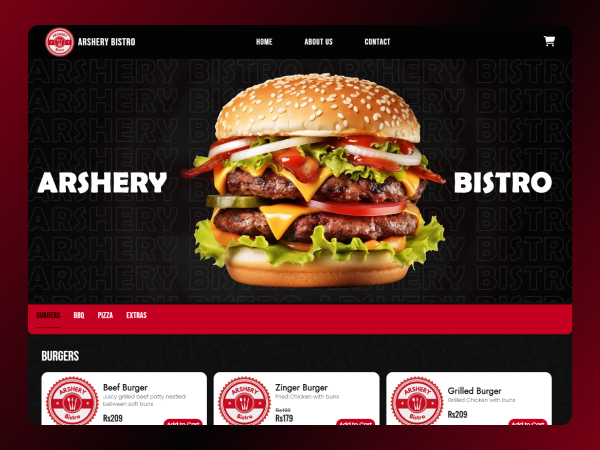
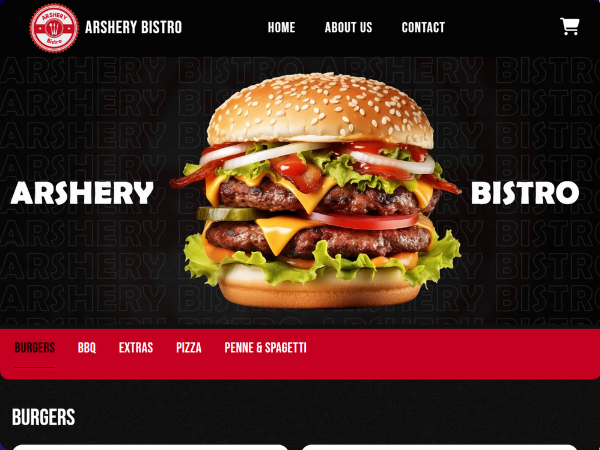
Enhance project modal and portfolio components with new features and styles
- Added drop shadow and transition effects to project items
- Improved modal layout with new role and tech stack sections
- Implemented responsive body overflow handling for modal
- Updated project data with new projects and roles
- Refined skills and about me sections for clarity and impact
- Added new experience data and assets

diff --git a/src/data/Projects.js b/src/data/Projects.js
@@ -1,33 +1,72 @@
 import arsheryBistro from "../assets/arsherybistro.png";
 import mystory from "../assets/mystory.png";
-import project3 from "../assets/project-3.jpg";
+import ardonyx from "../assets/ardonyx.png";
+import smartSpend from "../assets/smartSpend.png";
+import karyawan from "../assets/karyawan.png";
 
 export const projects = [
   {
     id: 1,
+    title: "Ardonyx",
+    techStack: ["React.js", "antD"],
+    category: "Clothing Store",
+    description:
+      "Ardonyx is a design-forward, cutting-edge eCommerce platform built for a contemporary clothing brand. With a sleek interface, smooth animations, and responsive design, the website offers a seamless and visually engaging shopping experience. From curated collections to a minimalist product layout, Ardonyx reflects a strong focus on aesthetics and user experience — blending modern fashion with modern tech.",
+    imgSrc: ardonyx,
+    myRole: ["Frontend Development", "Project Management"],
+    link: "https://ardonyx-frontend.vercel.app/anime/attack-on-titan",
+  },
+  {
+    id: 2,
+    title: "SmartSpend",
+    techStack: ["Next.js", "antD"],
+    category: "Expense Tracker",
+    description:
+      "Smart Spend is a personal finance management tool that helps users track their expenses and manage their budgets effectively. The platform offers a user-friendly interface, allowing users to easily input and categorize their expenses. With features like expense tracking, budget setting, and financial insights, Smart Spend empowers users to take control of their finances.",
+    imgSrc: smartSpend,
+    myRole: ["Frontend Development", "UI/UX Design", "Project Management"],
+    link: "https://smart-spend-web.vercel.app/",
+  },
+  {
+    id: 3,
     title: "Arshery Bistro",
+    techStack: ["Reeact.js", "antD"],
     category: "Restaurant Website",
     description:
       "Arshery Bistro is a restaurant website built with the MERN stack, where users can browse the menu, place orders, read about the restaurant, and contact us. I handled the frontend development. The site also includes an admin page for managing products and orders.",
     imgSrc: arsheryBistro,
+    myRole: ["Frontend Development", "UI/UX Design", "Project Management"],
     link: "https://arshery-bistro.vercel.app/",
   },
   {
-    id: 2,
+    id: 4,
+    title: "The Karyawan",
+    techStack: ["React.js", "Shadcn", "Tailwind"],
+    category: "Publication Website",
+    description:
+      "Karyawan is a publication website where users can create accounts, log in, and publish articles. The site features a clean and modern design, with a focus on user experience. I was responsible for troubleshooting UI issues, optimizing the interface, and fixing visual bugs.",
+    imgSrc: karyawan,
+    myRole: [
+      "UI Troubleshooting",
+      "Interface Optimization",
+      "Visual Bug Fixing",
+    ],
+    link: "https://karyawan-v2.vercel.app/",
+  },
+  {
+    id: 5,
     title: "MyStory",
+    techStack: ["Django", "Jinja 2", "Python"],
     category: "Story Sharing Platform",
     description:
       "MyStory is a story-sharing platform built with Django and Python. It lets users create accounts, log in, share stories, and browse others' stories. The frontend uses HTML and CSS for a clean interface, and the admin interface allows efficient management of users and content.",
     imgSrc: mystory,
+    myRole: [
+      "Frontend Development",
+      "UI/UX Design",
+      "Project Management",
+      "Backend Development",
+    ],
     link: "https://mystoryapp.pythonanywhere.com/",
-  },
-  {
-    id: 3,
-    title: "Fundo",
-    category: "Dummy Project",
-    description:
-      "Fundo is not a project; it's just a placeholder. I will add more real-world projects here in the future.",
-    imgSrc: project3,
-    link: "https://github.com/Arsal-Naeem/",
   },
 ];

diff --git a/src/Components/ProjectModal/ProjectModal.css b/src/Components/ProjectModal/ProjectModal.css
@@ -43,8 +43,10 @@
   padding: 20px;
   border-radius: 20px;
   display: flex;
-  gap: 20px;
+  gap: 28px;
   animation: slideUpFadeIn 0.3s ease-out;
+  max-height: 90vh;
+  overflow-y: auto;
 }
 
 /* Rest of your CSS remains the same */
@@ -162,6 +164,91 @@
     rgb(32, 32, 34);
 }
 
+.modal-my-role {
+  margin-bottom: 25px;
+}
+
+.modal-my-role-title {
+  font-size: 1.1rem;
+  font-weight: 500;
+  margin-bottom: 12px;
+  color: var(--text-color);
+}
+
+.modal-role-list {
+  list-style: none;
+  padding-left: 0;
+  display: flex;
+  flex-direction: column;
+  margin-left: -8px;
+  gap: 8px;
+}
+
+.modal-role-item {
+  position: relative;
+  padding-left: 24px;
+  color: rgb(214, 214, 214);
+  font-size: 15px;
+  font-weight: 300;
+  line-height: 1.6;
+}
+
+.modal-role-item::before {
+  content: "•";
+  position: absolute;
+  left: 8px;
+  color: var(--accent-color);
+  font-size: 18px;
+}
+
+.modal-tech-stack {
+  margin-bottom: 25px;
+}
+
+.modal-tech-stack-title {
+  font-size: 1.1rem;
+  font-weight: 500;
+  margin-bottom: 12px;
+  color: var(--text-color);
+}
+
+.modal-tech-container {
+  display: flex;
+  flex-wrap: wrap;
+  gap: 10px;
+}
+
+.modal-tech-tag {
+  cursor: default;
+  background: linear-gradient(
+    to bottom right,
+    hsl(0, 0%, 25%) 0%,
+    hsla(0, 0%, 25%, 0) 50%
+  );
+  padding: 8px 12px;
+  border-radius: 10px;
+  font-size: 14px;
+  color: var(--accent-color);
+  position: relative;
+  z-index: 1;
+  transition: var(--transition-1);
+}
+
+.modal-tech-tag::before {
+  content: "";
+  position: absolute;
+  inset: 1px;
+  background: linear-gradient(
+      to bottom right,
+      hsla(240, 1%, 18%, 0.251) 0%,
+      hsla(240, 2%, 11%, 0) 100%
+    ),
+    hsl(240, 2%, 13%);
+  border-radius: inherit;
+  z-index: -1;
+  transition: var(--transition-1);
+}
+
 @media only screen and (max-width: 1024px) {
   .modal-content {
     width: 90vw;
@@ -189,5 +276,24 @@
   .modal-description {
     margin: 20px 0;
     font-size: 14px;
+  }
+  .modal-role-item {
+    font-size: 14px;
+    padding-left: 20px;
+  }
+  
+  .modal-my-role-title {
+    font-size: 1rem;
+    margin-bottom: 10px;
+  }
+  
+  .modal-tech-tag {
+    font-size: 13px;
+    padding: 6px 10px;
+  }
+  
+  .modal-tech-stack-title {
+    font-size: 1rem;
+    margin-bottom: 10px;
   }
 }

diff --git a/src/Components/ProjectModal/ProjectModal.jsx b/src/Components/ProjectModal/ProjectModal.jsx
@@ -4,7 +4,7 @@ import { faXmark } from "@fortawesome/free-solid-svg-icons";
 import "./ProjectModal.css";
 
 const ProjectModal = ({ project, closeModal }) => {
-  const { title, category, description, imgSrc, link } = project;
+  const { title, category, description, imgSrc, myRole, link } = project;
 
   //Closing the Modal when clicked outside it
   useEffect(() => {
@@ -39,6 +39,28 @@ const ProjectModal = ({ project, closeModal }) => {
             <p className="modal-category">{category}</p>
           </header>
           <p className="modal-description">{description}</p>
+
+          <section className="modal-tech-stack">
+            <h4 className="modal-tech-stack-title">Tech Stack</h4>
+            <div className="modal-tech-container">
+              {project.techStack.map((tech, index) => (
+                <span key={index} className="modal-tech-tag">
+                  {tech}
+                </span>
+              ))}
+            </div>
+          </section>
+
+          <section className="modal-my-role">
+            <h4 className="modal-my-role-title">My Role</h4>
+            <ul className="modal-role-list">
+              {myRole.map((role, index) => (
+                <li key={index} className="modal-role-item">
+                  {role}
+                </li>
+              ))}
+            </ul>
+          </section>
           <a
             href={link}
             className="modal-visit-btn"

diff --git a/src/data/aboutMe.js b/src/data/aboutMe.js
@@ -1,12 +1,7 @@
 export const briefContent = [
-  `As a software engineering student at UBIT, I am passionate about
-    front-end development with a strong foundation in JavaScript, HTML, and
-    CSS. My skills in React.js and Git help me create seamless web
-    experiences and manage projects efficiently. I am driven to continuously
-    refine my skills and explore new technologies in web development.`,
+  `Passionate about building seamless, high-performance web applications using Next.js, React, and Figma. As a Frontend Engineer, I focus on developing scalable solutions with a keen eye for UI/UX design, responsiveness, and performance optimization.`,
 
-  `I am committed to continuous learning and eager to tackle the challenges
-    of front-end engineering. My goal is to deliver innovative,
-    user-centered solutions and contribute meaningfully to the evolving
-    field of web development.`,
+  `I thrive on creating intuitive user experiences, collaborating with teams, and staying up-to-date with modern front-end technologies. I aim to bridge the gap between aesthetics and functionality from component-based architecture to interactive design.`,
+
+  `Currently working on enterprise-level ERP solutions at Max ERP, but always open to learning and exploring new challenges. Let’s connect!`,
 ];

diff --git a/src/Pages/Portfolio/Portfolio.jsx b/src/Pages/Portfolio/Portfolio.jsx
@@ -2,21 +2,43 @@ import Layout from "../../Components/Layout/Layout";
 import ProjectItem from "../../Components/ProjectItem/ProjectItem";
 import { projects } from "../../data/Projects";
 import ProjectModal from "../../Components/ProjectModal/ProjectModal";
-import { useState } from "react";
+import { useEffect, useState } from "react";
 
 
 const Portfolio = () => {
   const [modalProject, setModalProduct] = useState(null);
 
   const openModal = (project) => {
-    console.log(project)
     setModalProduct(project);
   };
 
   const closeModal = () => {
-    console.log("closing")
     setModalProduct(null);
   };
+
+  useEffect(() => {
+    const isWideScreen = window.innerWidth > 768;
+    
+    if (modalProject) {
+      document.body.style.overflow = 'hidden';
+      if (isWideScreen) {
+        document.body.style.marginRight = '10px';
+      }
+    } else {
+      document.body.style.overflow = 'auto';
+      if (isWideScreen) {
+        document.body.style.marginRight = '0';
+      }
+    }
+  
+    return () => {
+      document.body.style.overflow = 'auto';
+      if (isWideScreen) {
+        document.body.style.marginRight = '0';
+      }
+    };
+  }, [modalProject]);
+
   return (
     <>
       <Layout pageTitle="Portfolio">

diff --git a/src/data/Skills.js b/src/data/Skills.js
@@ -1,8 +1,10 @@
 export const skills = [
+  { title: "React.js", percentage: 75 },
+  { title: "Next.js", percentage: 60 },
+  { title: "Javascript", percentage: 80 },
   { title: "HTML", percentage: 90 },
   { title: "CSS", percentage: 85 },
-  { title: "Javascript", percentage: 75 },
-  { title: "React", percentage: 75 },
-  { title: "Python", percentage: 80 },
+  { title: "Tailwind", percentage: 70 },
+  { title: "Python", percentage: 50 },
   { title: "Git", percentage: 70 },
 ];

diff --git a/src/Components/ProjectItem/ProjectItem.css b/src/Components/ProjectItem/ProjectItem.css
@@ -29,6 +29,8 @@
   border-radius: 16px;
   overflow: hidden;
   margin-bottom: 15px;
+  box-shadow: 0 4px 10px rgba(0, 0, 0, 0.4); /* Added drop shadow */
+  transition: box-shadow 0.3s ease; /* Smooth transition for shadow */
 }
 
 .project-img img {
@@ -62,6 +64,10 @@
 
 .project-link:hover img {
   transform: scale(1.1);
+}
+
+.project-link:hover .project-img {
+  box-shadow: 0 8px 20px rgba(0, 0, 0, 0.3); /* Enhanced shadow on hover */
 }
 
 /* Project Icon Box */

diff --git a/src/Pages/Resume/Resume.jsx b/src/Pages/Resume/Resume.jsx
@@ -7,10 +7,12 @@ import {
   faCertificate,
   faGraduationCap,
 } from "@fortawesome/free-solid-svg-icons";
+import { experience } from "../../data/Experience";
 
 const Resume = () => {
   return (
     <Layout pageTitle="Resume">
+      <Timeline title="Experience" icon={faGraduationCap} items={experience} />
       <Timeline title="Education" icon={faGraduationCap} items={education} />
       <Timeline
         title="Certifications"

diff --git a/src/data/Experience.js b/src/data/Experience.js
@@ -1,0 +1,8 @@
+export const experience = [
+    {
+      title: "Frontend Developer",
+      date: "Nov 2024 — Present",
+      description: "Max ERP",
+    },
+  ];
+  
